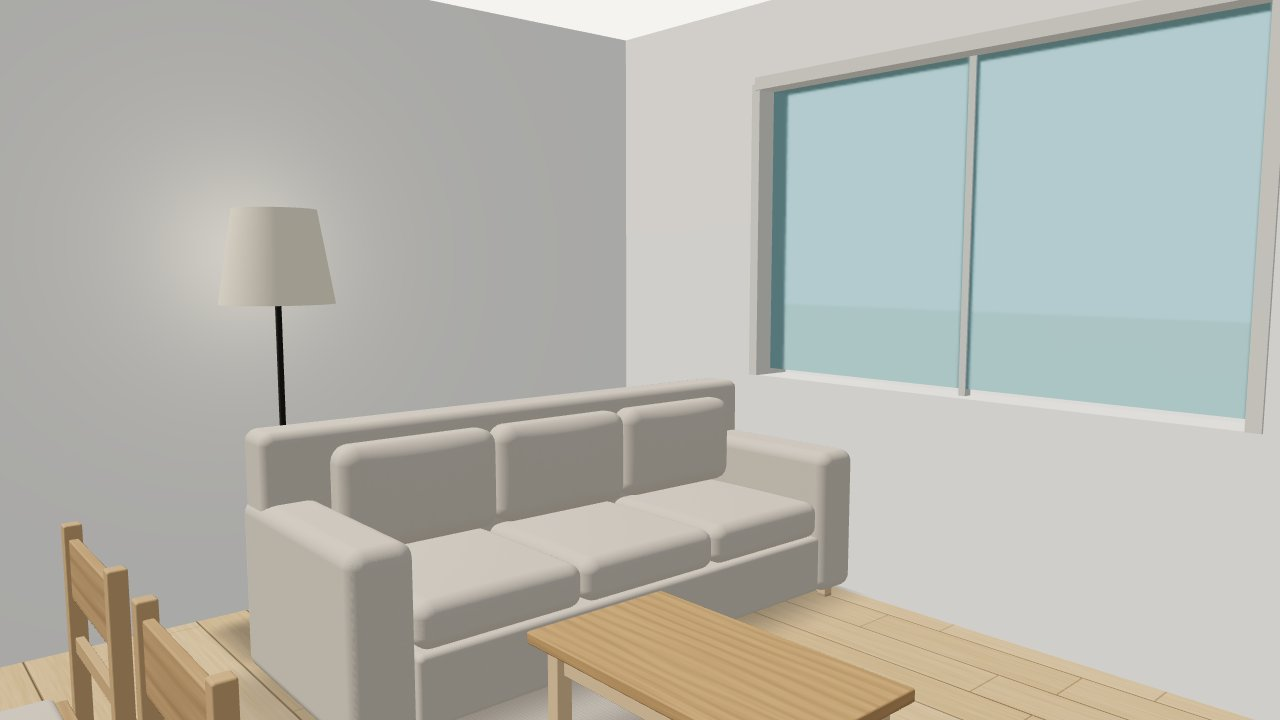
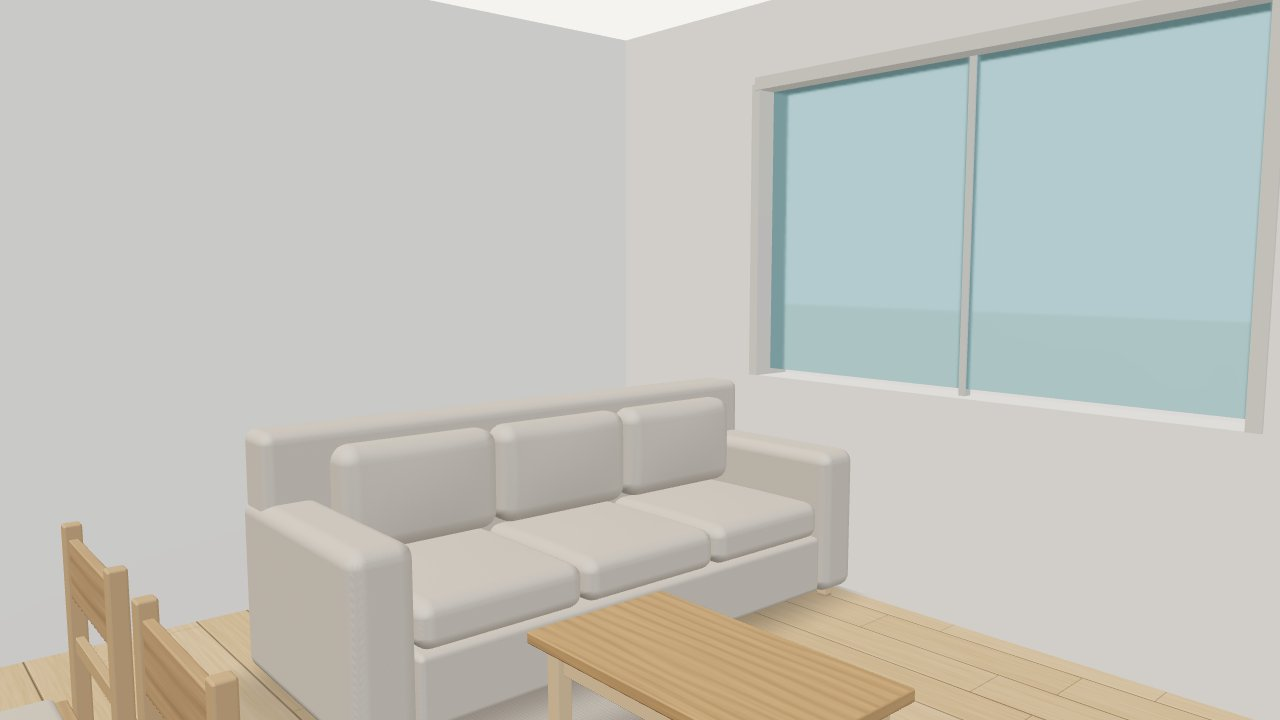
fix: give the full-scene viewer an HDR environment so metals read as steel
Day and night lighting had no environment map, so metallic parts (handles,
tap, sink) reflected nothing and rendered almost black in the viewer and its
PNG. Mount the local studio HDR as image-based light, lower ambient and
hemisphere light to keep diffuse surfaces balanced, and boost metal env
reflection. Regenerate the afternoon WebGL demo views; record kitchen CI.

diff --git a/src/components/Scene3D.tsx b/src/components/Scene3D.tsx
@@ -31,7 +31,7 @@ function Box({position=[0,0,0],size,color,material='matte',opacity=1,finishId,ro
   const geometry=useMemo(()=>lathe?latheGeometry(lathe,size):physicalBox(size,bevel,crown),[...size,bevel,crown?.axis,crown?.amount,lathe]);
   useEffect(()=>()=>geometry.dispose(),[geometry]);
   return <mesh castShadow={material!=='glass'} receiveShadow position={position}>
-    <primitive object={geometry} attach="geometry"/>{id&&material==='matte'&&opacity===1?<Suspense fallback={<meshStandardMaterial color={color}/>}><PbrSurface id={id} color={color}/></Suspense>:material==='glass'?<meshPhysicalMaterial name="atelier:glass" color={color} roughness={.08} {...physicalProperties({finish:'glass',color},high)} thickness={Math.min(...size)}/>:surface&&material==='matte'&&opacity===1?<meshStandardMaterial name={`atelier:${surface}`} color={color} roughness={1} metalness={0} {...textureProps(surface)}/>:<meshStandardMaterial name={role?`atelier:${role}`:undefined} color={color} roughness={material==='metal'?.28:.8} metalness={material==='metal'?.7:0} transparent={opacity<1} opacity={opacity}/>}
+    <primitive object={geometry} attach="geometry"/>{id&&material==='matte'&&opacity===1?<Suspense fallback={<meshStandardMaterial color={color}/>}><PbrSurface id={id} color={color}/></Suspense>:material==='glass'?<meshPhysicalMaterial name="atelier:glass" color={color} roughness={.08} {...physicalProperties({finish:'glass',color},high)} thickness={Math.min(...size)}/>:surface&&material==='matte'&&opacity===1?<meshStandardMaterial name={`atelier:${surface}`} color={color} roughness={1} metalness={0} {...textureProps(surface)}/>:<meshStandardMaterial name={role?`atelier:${role}`:undefined} color={color} roughness={material==='metal'?.28:.8} metalness={material==='metal'?.7:0} envMapIntensity={material==='metal'?2.2:1} transparent={opacity<1} opacity={opacity}/>}
   </mesh>;
 }
 function FloorSurface({room}:{room:Project['rooms'][number]}){
@@ -407,8 +407,10 @@ export default function Scene3D({canvasRef,topView=false}:{canvasRef:MutableRefO
     <Canvas frameloop="demand" shadows dpr={high?[1,2]:[1,1.3]} gl={{antialias:true,preserveDrawingBuffer:true,toneMapping:THREE.ACESFilmicToneMapping,toneMappingExposure:render.exposure}} camera={{position:[11,11,12],fov:42,near:.1,far:1000}} onCreated={({gl})=>{canvasRef.current=gl.domElement;}} onPointerMissed={()=>setSelection(null)}>
       <color attach="background" args={[studio?(render.studio??defaultStudio).background:'#f4f3ef']}/>
       {studio?<StudioLights project={project} subject={subject} high={high}/>:<>
-      <ambientLight intensity={render.lighting==='night'?.12:.65}/>
-      <hemisphereLight intensity={render.lighting==='night'?.18:.6} groundColor="#ccc8bd" color="#e7f1ff"/>
+      <ambientLight intensity={render.lighting==='night'?.08:.35}/>
+      <hemisphereLight intensity={render.lighting==='night'?.12:.4} groundColor="#ccc8bd" color="#e7f1ff"/>
+      {/* Image-based light: metals need something to reflect, or they render almost black. */}
+      <ErrorBoundary fallback={null}><Suspense fallback={null}><Environment files={`${import.meta.env.BASE_URL}environment/studio.hdr`} environmentIntensity={render.lighting==='night'?.08:.28}/></Suspense></ErrorBoundary>
       <directionalLight castShadow position={[-5,13,7]} intensity={render.lighting==='night'?.2:2.3} color={render.lighting==='night'?'#a8bfff':'#fff5e8'} shadow-mapSize-width={high?2048:1024} shadow-mapSize-height={high?2048:1024} shadow-camera-left={-20} shadow-camera-right={20} shadow-camera-top={20} shadow-camera-bottom={-20} shadow-bias={-.0001}/>
       {render.lighting==='night'&&<pointLight position={[project.width/2,2.3,project.depth/2]} intensity={35} color="#ffd6a3" decay={2}/>}
       </>}

diff --git a/PROJECT_STATUS.md b/PROJECT_STATUS.md
@@ -19,8 +19,9 @@ Repositorio: `alexisalbaceterodriguez-cmd/project-house-rendering`; rama de refe
 - **Aristas biseladas del mobiliario (20/11):** `src/lib/boxGeometry.ts` (`physicalBox`, `EDGE_RADIUS`) redondea las aristas dentro de las mismas medidas exteriores: tapicería de sofá y colchón/almohada 3,5 cm, cojines y edredón 2,5 cm, madera (encimeras de mesa/escritorio, patas, silla, base y cabecero de cama) 6 mm, carcasas (armario, cuerpo de isla) 4 mm; el radio se limita al 45 % del lado más fino. Muros, huecos y vidrio siguen siendo cajas exactas. Los objetos del taller usan el mismo helper (sin cambio de comportamiento). El asiento del sofá queda 1,5 cm por detrás del frontal de los brazos: sus caras coplanares producían una mancha de z-fighting visible en visor y Cycles; la profundidad total la siguen marcando los brazos. Demo nórdica tarde re-renderizada (misma cámara): 9,38 s / 10,33 s, luminancia 0,536, 0 % recortado; las aristas suaves se ven igual en Cycles y WebGL. 4 unitarias nuevas (`box-geometry.test.ts`: medidas exteriores exactas, límite del radio, caja plana sin radio con UV en metros, normales suaves), `tsc -b`, build y `cycles-package` + `product` E2E (11/11) en local. Publicado en `bfddce35f3de442cdd6eab98bb0053f78e48c92f`; CI [44791837477](https://github.com/alexisalbaceterodriguez-cmd/project-house-rendering/actions/runs/44791837477) (job 136481230595) **success**: 127 unitarias, 22 Python (1 omitida) y 42/42 E2E. Sigue siendo geometría simplificada: un sofá de cajas redondeadas, no un modelo tapizado real.
 - **Mobiliario paramétrico por piezas y luz diurna en recintos sin ventana (20/11):** `src/lib/furnitureParts.ts` construye, dentro de la huella y la altura del plano, sofá (zócalo, patas, brazos, cojines de asiento y respaldo según anchura con holgura de 1 cm), cama (canapé, patas, colchón, cabecero, almohadas, edredón), armario (carcasa, puertas con tiradores), mesa, silla, isla, cocina lineal (módulos, encimera, placa, fregadero, grifo), frigorífico, inodoro (taza torneada, cisterna, asiento, tapa, pulsador), mueble de lavabo suspendido (cajones, lavabo sobre encimera, grifo), ducha (plato, desagüe, mamparas de vidrio, columna, rociador), lámpara de pie (pantalla con rol `lampshade`) y maceta; las piezas torneadas usan `latheGeometry` (`boxGeometry.ts`) y el follaje de la planta (`plantGeometry.ts`) es determinista por id y se recorta a la huella y la altura. El GLB del render se exporta del mismo grafo, así que Cycles recibe las mismas mallas. Proyecto de ejemplo: los muebles contra muro miran hacia la estancia (los proyectos guardados conservan sus giros) y ambos baños se redistribuyen para que la puerta abra libre (ducha al fondo). **Recintos sin ventana:** los presets tarde/día envían `lighting.litRooms` (estancias sin ninguna ventana propia, 4 W/m², validadas contra los ids de recintos en el contrato) y Blender añade una luz de área de techo a 5000 K; noche y estudio mandan `[]`. En la demo se encienden vestíbulo (24 W) y baños (13 W): el baño ya no sale negro. Demos misma cámara Cycles/WebGL (tarde, 256 muestras, RTX 5070 OptiX): salón 9,42 s / 10,45 s, luminancia 0,535; dormitorio 10,04 s / 11,06 s, 0,400; baño 1 16,42 s / 17,66 s, 0,637; 0 % recortado en las tres (salón y dormitorio renderizados antes de la luz del vestíbulo). Validación local: `tsc -b`, 173 unitarias (nuevas `furniture-parts.test.ts`: piezas dentro de la envolvente; `box-geometry` torneado; `render-package` litRooms), 23 Python del motor, build y E2E `cycles-package`, `product`, `studio-render` y editor (25/25; `cycles-package` repetido tras litRooms). Publicado en `bc8292624872ca7b5e518740c9daa86cc1bac35f`; CI [44802683703](https://github.com/alexisalbaceterodriguez-cmd/project-house-rendering/actions/runs/44802683703) (job 136518610197) **success**: 173 unitarias, 23 Python (humo Blender omitido sin Blender) y 42/42 E2E. Límites: piezas geométricas simplificadas, sin simulación de tejido, sin translucidez de hojas ni pantallas, texturas sintéticas; no es fidelidad fotográfica.
 - **Hojas y pantallas translúcidas en Cycles (20/11):** `atelier_render.py` combina los materiales `atelier:leaf` y `atelier:lampshade` con un BSDF Translucent de su color base (enlaces de textura incluidos), sin tocar geometría ni GLB: la hoja **añade** transmisión al 60 % del color base sobre su reflexión y la pantalla **mezcla** un 40 % hacia transmisión (una tela blanca no supera 1). Primer intento descartado tras medirlo: mezclar un 30 % también en hojas oscurecía el follaje un 14 % con luz lateral. A/B misma cámara y escena (primer plano de la planta junto a la ventana, tarde): verde medio del follaje 0,125 → 0,161 (+29 %) frente a sin translucidez; la pantalla nocturna sigue brillando. `result.json` informa `materials.translucent` (3 en el salón: dos tonos de hoja + pantalla) y la prueba de humo con Blender lo comprueba con una pieza `atelier:leaf` nueva en el fixture. La planta del ejemplo pasa a x 3,6 / y 0,45, junto a la ventana: tras girar el sofá quedaba solapada 12 cm con él. Demos del salón re-renderizadas (distribuidor iluminado + translucidez): tarde 13,73 s / 15,06 s, luminancia 0,546; noche 15,59 s / 16,88 s, 0,566; 0 % recortado. 23 Python en local con humo Blender real. Publicado en 33e6e4aad7a675ce44d5442122a5afd39f3ccf2b; CI run [44804341915](https://github.com/alexisalbaceterodriguez-cmd/project-house-rendering/actions/runs/44804341915) (job 136524275669) **success**: 173 unitarias, 23 del motor y 42 E2E. Límite: BSDF de superficie fina, no dispersión subsuperficial medida.
-- **Cocina-comedor y plano de ejemplo corregido (20/11):** `kitchenParts` recorta la encimera en cuatro tramos alrededor de una cubeta de acero bajo encimera de 18 cm (fondo, cuatro paredes y desagüe torneado) y rebaja el módulo inferior bajo ella; la placa lleva cuatro zonas de inducción (anillos torneados) y el grifo es un cuerpo torneado con base, caño, boquilla y maneta lateral; todo dentro de la huella (envolvente y sin caras coplanarias en `furniture-parts.test.ts`). Al encuadrar la cocina aparecieron dos fallos reales del ejemplo: la puerta de entrada (muro sur, x 2,07–2,93) quedaba tapada por la cocina lineal (x 0,08–2,78) y la cama doble invadía 12 cm el armario. La entrada pasa al muro oeste del salón (y 4,1–4,9) y la cama a x 8,7; la nueva `demo-project.test.ts` exige 45 cm libres a ambos lados de cada puerta y ningún mueble solapado (salvo sillas bajo mesa). El ejemplo gana cuatro sillas de comedor y una ventana de 1 × 1 m sobre el fregadero (alféizar 1,10 m): sin ella la cocina, a 5 m de la única ventana, quedaba en penumbra (luminancia media 0,19 frente a 0,33). Re-renderizadas todas las demos con la misma cámara Cycles/WebGL (salón tarde y noche, dormitorio con luz del distribuidor y cámara nueva, baño y cocina-comedor nueva). Comprobado en local: 175 unitarias, build, smoke `cycles-package`. Commit `__SHA3__`, CI __CI3__. Límite visto: en la captura WebGL los metales (tiradores, grifo, cubeta) salen casi negros; en Cycles se leen como acero.
-- **Siguiente tarea exacta:** revisar por qué los metales salen casi negros en el visor WebGL y en su PNG (¿el HDR `studio.hdr` llega a cargarse antes de la captura?, intensidad de entorno 0,45, metalness 0,7) y calibrarlos contra Cycles con la cocina-comedor como referencia (misma cámara), con unitaria si cambia la configuración de materiales y smoke de exportación de imagen. Después texturas escaneadas CC0 donde aporten realismo (requiere permiso del usuario para la descarga).
+- **Cocina-comedor y plano de ejemplo corregido (20/11):** `kitchenParts` recorta la encimera en cuatro tramos alrededor de una cubeta de acero bajo encimera de 18 cm (fondo, cuatro paredes y desagüe torneado) y rebaja el módulo inferior bajo ella; la placa lleva cuatro zonas de inducción (anillos torneados) y el grifo es un cuerpo torneado con base, caño, boquilla y maneta lateral; todo dentro de la huella (envolvente y sin caras coplanarias en `furniture-parts.test.ts`). Al encuadrar la cocina aparecieron dos fallos reales del ejemplo: la puerta de entrada (muro sur, x 2,07–2,93) quedaba tapada por la cocina lineal (x 0,08–2,78) y la cama doble invadía 12 cm el armario. La entrada pasa al muro oeste del salón (y 4,1–4,9) y la cama a x 8,7; la nueva `demo-project.test.ts` exige 45 cm libres a ambos lados de cada puerta y ningún mueble solapado (salvo sillas bajo mesa). El ejemplo gana cuatro sillas de comedor y una ventana de 1 × 1 m sobre el fregadero (alféizar 1,10 m): sin ella la cocina, a 5 m de la única ventana, quedaba en penumbra (luminancia media 0,19 frente a 0,33). Re-renderizadas todas las demos con la misma cámara Cycles/WebGL (salón tarde y noche, dormitorio con luz del distribuidor y cámara nueva, baño y cocina-comedor nueva). Comprobado en local: 175 unitarias, build, smoke `cycles-package`. Commit `42057bda6339a58787768809c97def97a5c0c130`, CI [44806485884](https://github.com/alexisalbaceterodriguez-cmd/project-house-rendering/actions/runs/44806485884) (job 136531725477) completed/success: 175 unitarias, 23 pruebas Python del motor (humo Blender omitido) y 42 E2E Chromium. Límite visto: en la captura WebGL los metales (tiradores, grifo, cubeta) salían casi negros; en Cycles se leen como acero (corregido en el punto siguiente).
+- **Metales del visor WebGL calibrados (20/11):** la causa no era la carga del HDR: con iluminación día/noche el visor no tenía mapa de entorno (el `studio.hdr` solo se montaba en modo estudio; ninguna petición del HDR en la escena completa), así que un metal (metalness 0,7) no tenía nada que reflejar. La escena completa monta ahora el mismo HDR local como luz de entorno (0,28 de día, 0,08 de noche), rebaja ambiente y hemisférica (0,65/0,6 → 0,35/0,4 de día) para no lavar los difusos y da a los metales `envMapIntensity` 2,2. Misma cámara de la cocina-comedor: tiradores, grifo y cubeta se leen ahora como acero gris, como en Cycles; la luminancia media de la vista WebGL sube de 0,644 a 0,724 (paredes algo más blancas, más cerca del blanco cálido de Cycles). Las cuatro vistas `-webgl.jpg` de tarde se regeneraron con la misma cámara y escena (el render Cycles no cambia: el paquete es idéntico y el motor lo reutiliza). Unitarias (175), build y smoke `cycles-package` + `studio-render` (6/6) en local. Commit y CI: __SHA4__, __CI4__. Límite: el entorno es el HDR de estudio, no el exterior real de la vivienda; los reflejos son plausibles, no físicos.
+- **Siguiente tarea exacta:** texturas escaneadas CC0 donde aporten realismo (suelo de roble y tejido de sofá primero), que requieren permiso del usuario para la descarga; mientras tanto, completar piezas paramétricas pendientes (muebles altos opcionales de cocina cuando la altura del objeto lo permita, mesilla y estantería) con sus pruebas de envolvente y comparación visor/Cycles con la misma cámara.
 
 ## Estado anterior — presentación de interiores, 20/11/2026
 

diff --git a/render-engine/README.md b/render-engine/README.md
@@ -68,7 +68,7 @@ El importador glTF de Blender asigna color base, metalicidad, rugosidad, normal,
 - Vidrio de ventanas: Principled con transmisión 1, IOR 1,5 y rugosidad 0 (el material WebGL es una aproximación translúcida).
 - Pantallas de lámpara: emisión cálida solo con el preset Noche.
 - Patrones del visor horneados (`src/lib/surfaceTextures.ts`): suelos sin material de biblioteca, tejidos de sofá y cama, vetas de encimeras y trama de alfombra viajan en el GLB como color sRGB (JPEG) + normal + rugosidad, con escala real en metros por `KHR_texture_transform`; el importador los conecta mediante nodos Mapping. Son texturas sintéticas deterministas, no escaneadas.
-- Diferencias conocidas: los sombreadores personalizados de WebGL que no se hornean no se trasladan.
+- Diferencias conocidas: los sombreadores personalizados de WebGL que no se hornean no se trasladan. El visor ilumina la escena completa con el HDR de estudio local como entorno (reflejos de metal plausibles); Cycles usa cielo y sol del preset, así que los reflejos no coinciden píxel a píxel.
 
 ## Presets
 
@@ -101,7 +101,7 @@ Calidades: `draft` 64, `standard` 256, `high` 1024 muestras con denoiser OpenIma
 | Tarde, cocina-comedor (ventana sobre el fregadero) | `nordic-kitchen-afternoon-cycles.jpg` vs `-webgl.jpg` | 15,76 s | 17,28 s | 0,329 | 0 % |
 | Noche | `nordic-living-night-cycles.jpg` | 15,73 s | 17,24 s | 0,556 | 0 % |
 
-1280 × 720, 256 muestras, OptiX en RTX 5070 Laptop, Blender 4.5.16 LTS. La mesa de centro, la lámpara y el giro del sofá de la demo se añadieron en tiempo de ejecución; no forman parte del proyecto por defecto. Desde el 20/11 el sofá, la cama, la mesa, la silla y el armario tienen aristas redondeadas dentro de sus medidas exteriores (`src/lib/boxGeometry.ts`); el GLB lleva la misma malla que el visor. El mobiliario se compone de piezas paramétricas (`src/lib/furnitureParts.ts`): zócalo, brazos, respaldo y cojines de asiento y respaldo separados con holgura de 1 cm y tapa abombada; cabecero, canapé, colchón, almohadas y edredón dentro de la huella del plano. También armario (puertas con holgura, tiradores y zócalo), mesa, isla, silla, cocina lineal (muebles bajos, encimera recortada alrededor de una cubeta de acero bajo encimera con desagüe, placa de inducción con cuatro zonas marcadas y grifo torneado con caño sobre la cubeta; sin muebles altos, porque la huella del plano mide 0,9 m de alto), frigorífico, inodoro, mueble de lavabo suspendido con lavabo de sobre encimera, ducha con mampara y rociador, lámpara de pie y maceta; las piezas torneadas (taza, lavabo, grifería, pantalla, maceta) son sólidos de revolución (`latheGeometry`) y la planta tiene follaje generado de forma determinista a partir del id del objeto (`src/lib/plantGeometry.ts`), siempre dentro de la huella y la altura del plano. El frente de cada pieza mira a +z con giro 0; el proyecto de ejemplo gira los muebles apoyados en muros y=fondo o x=0 para que miren a la sala, pero los proyectos guardados conservan sus giros. Todas las cifras incluyen ya la luz de techo del distribuidor y la translucidez (el render pasó de unos 9–11 s a 14–21 s). El 20/11 se corrigieron dos fallos del plano de ejemplo que comprueba `src/__tests__/demo-project.test.ts` (ninguna puerta con muebles a menos de 45 cm y ningún mueble solapado salvo sillas bajo mesa): la puerta de entrada quedaba tapada por la cocina lineal y pasó al muro oeste del salón (y 4,1–4,9), y la cama doble invadía 12 cm el armario y se desplazó a x 8,7, con nueva cámara del dormitorio. El ejemplo gana cuatro sillas de comedor y una ventana de 1 × 1 m sobre el fregadero (alféizar 1,10 m), sin la cual la cocina, a 5 m de la única ventana del salón, quedaba en penumbra (luminancia media 0,19). En el salón asoman ahora las sillas en el borde izquierdo. La planta del ejemplo se movió junto a la ventana (x 3,6, y 0,45) porque tras girar el sofá quedaba solapada 12 cm con él; queda fuera de este encuadre. Siguen siendo volúmenes paramétricos: no hay costuras, arrugas ni caída de tela simuladas, y la translucidez es un BSDF de superficie fina, no dispersión subsuperficial medida.
+1280 × 720, 256 muestras, OptiX en RTX 5070 Laptop, Blender 4.5.16 LTS. La mesa de centro, la lámpara y el giro del sofá de la demo se añadieron en tiempo de ejecución; no forman parte del proyecto por defecto. Desde el 20/11 el sofá, la cama, la mesa, la silla y el armario tienen aristas redondeadas dentro de sus medidas exteriores (`src/lib/boxGeometry.ts`); el GLB lleva la misma malla que el visor. El mobiliario se compone de piezas paramétricas (`src/lib/furnitureParts.ts`): zócalo, brazos, respaldo y cojines de asiento y respaldo separados con holgura de 1 cm y tapa abombada; cabecero, canapé, colchón, almohadas y edredón dentro de la huella del plano. También armario (puertas con holgura, tiradores y zócalo), mesa, isla, silla, cocina lineal (muebles bajos, encimera recortada alrededor de una cubeta de acero bajo encimera con desagüe, placa de inducción con cuatro zonas marcadas y grifo torneado con caño sobre la cubeta; sin muebles altos, porque la huella del plano mide 0,9 m de alto), frigorífico, inodoro, mueble de lavabo suspendido con lavabo de sobre encimera, ducha con mampara y rociador, lámpara de pie y maceta; las piezas torneadas (taza, lavabo, grifería, pantalla, maceta) son sólidos de revolución (`latheGeometry`) y la planta tiene follaje generado de forma determinista a partir del id del objeto (`src/lib/plantGeometry.ts`), siempre dentro de la huella y la altura del plano. El frente de cada pieza mira a +z con giro 0; el proyecto de ejemplo gira los muebles apoyados en muros y=fondo o x=0 para que miren a la sala, pero los proyectos guardados conservan sus giros. Todas las cifras incluyen ya la luz de techo del distribuidor y la translucidez (el render pasó de unos 9–11 s a 14–21 s). El 20/11 se corrigieron dos fallos del plano de ejemplo que comprueba `src/__tests__/demo-project.test.ts` (ninguna puerta con muebles a menos de 45 cm y ningún mueble solapado salvo sillas bajo mesa): la puerta de entrada quedaba tapada por la cocina lineal y pasó al muro oeste del salón (y 4,1–4,9), y la cama doble invadía 12 cm el armario y se desplazó a x 8,7, con nueva cámara del dormitorio. El ejemplo gana cuatro sillas de comedor y una ventana de 1 × 1 m sobre el fregadero (alféizar 1,10 m), sin la cual la cocina, a 5 m de la única ventana del salón, quedaba en penumbra (luminancia media 0,19). En el salón asoman ahora las sillas en el borde izquierdo. Las vistas `-webgl.jpg` de tarde se regeneraron tras dar entorno HDR al visor: antes los metales (tiradores, grifo, cubeta) salían casi negros. La planta del ejemplo se movió junto a la ventana (x 3,6, y 0,45) porque tras girar el sofá quedaba solapada 12 cm con él; queda fuera de este encuadre. Siguen siendo volúmenes paramétricos: no hay costuras, arrugas ni caída de tela simuladas, y la translucidez es un BSDF de superficie fina, no dispersión subsuperficial medida.
 
 ## Seguridad
 

diff --git a/ROADMAP.md b/ROADMAP.md
@@ -112,7 +112,7 @@ Motor local independiente en [`render-engine/`](render-engine/README.md): el edi
 | R9 | Ediciones IA controladas que preservan la arquitectura | Pendiente |
 | R10 | Presentación cinematográfica (recorridos, variantes) | Pendiente |
 
-Hecho (20/11): aristas biseladas en sofá, cama, mesa, silla y armario; mobiliario paramétrico por piezas (tapicería de sofá y cama, armario, mesa, silla, isla, cocina, frigorífico, inodoro, lavabo, ducha, lámpara y planta, con piezas torneadas) compartido por visor y GLB dentro de la huella del plano; luz de techo diurna en recintos sin ventana (`lighting.litRooms`); hojas y pantallas translúcidas en Cycles; cocina con cubeta bajo encimera, placa con zonas y grifo torneado, y demo de cocina-comedor. Siguiente paso: calibrar metales del visor WebGL contra Cycles; después texturas escaneadas CC0 donde aporten realismo.
+Hecho (20/11): aristas biseladas en sofá, cama, mesa, silla y armario; mobiliario paramétrico por piezas (tapicería de sofá y cama, armario, mesa, silla, isla, cocina, frigorífico, inodoro, lavabo, ducha, lámpara y planta, con piezas torneadas) compartido por visor y GLB dentro de la huella del plano; luz de techo diurna en recintos sin ventana (`lighting.litRooms`); hojas y pantallas translúcidas en Cycles; cocina con cubeta bajo encimera, placa con zonas y grifo torneado, y demo de cocina-comedor; metales del visor WebGL calibrados con el HDR local como luz de entorno en la escena completa. Siguiente paso: texturas escaneadas CC0 donde aporten realismo (con permiso de descarga) y más piezas paramétricas.
 
 ### Arquitectura común y secuencia
 
